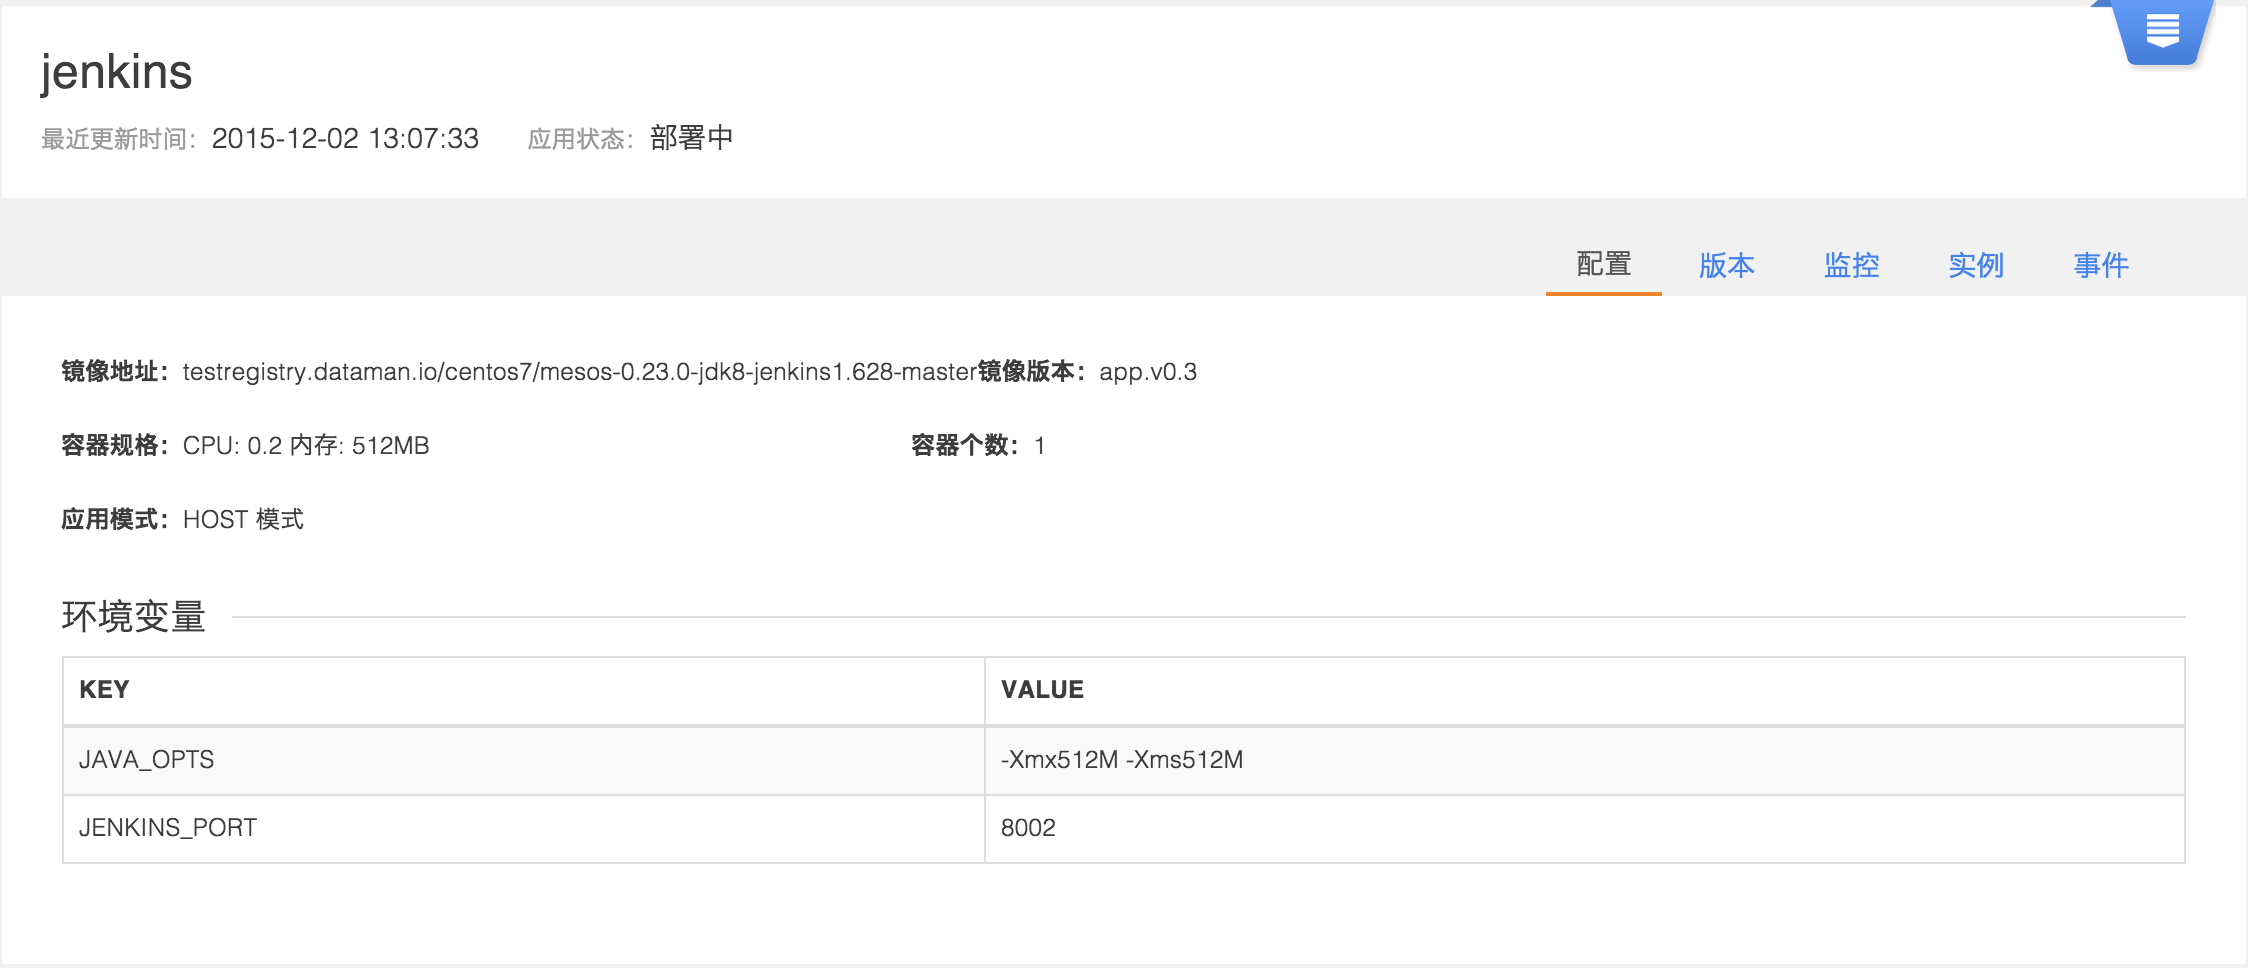
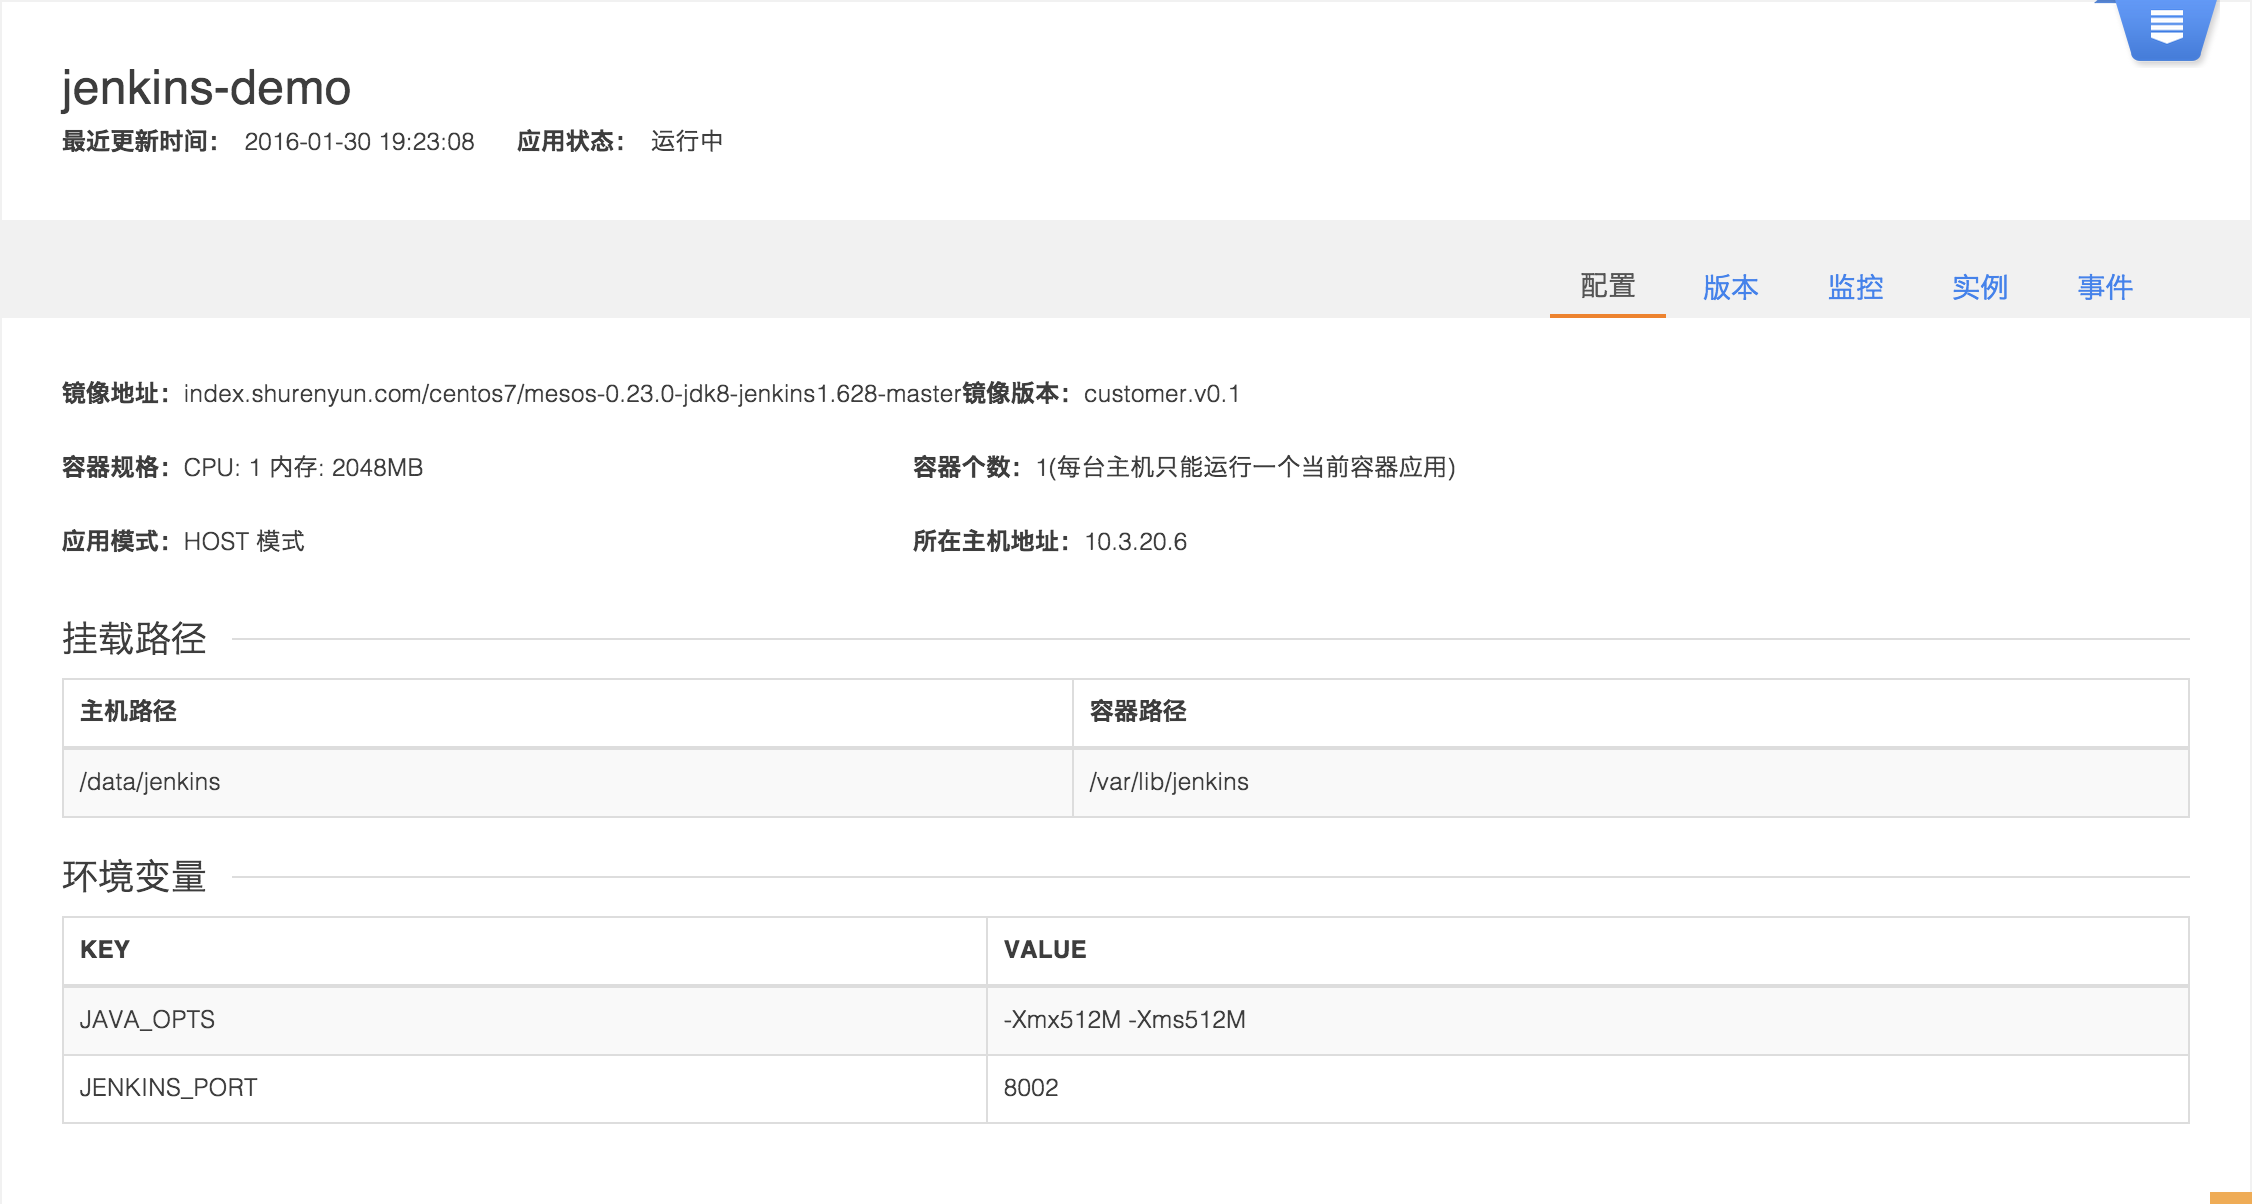
update jenkins

diff --git a/practice/jenkins.md b/practice/jenkins.md
@@ -33,13 +33,13 @@ Jenkins 是基于 Java 开发的一种持续集成 (CI) 工具，使用数人云
 
 * 填写应用名称：jenkins
 * 选择集群：demo
-* 添加应用镜像地址：testregistry.dataman.io/centos7/mesos-0.23.0-jdk8-jenkins1.628-master
-* 填写镜像版本：app.v0.3
+* 添加应用镜像地址：index.shurenyun.com/centos7/mesos-0.23.0-jdk8-jenkins1.628-master
+* 填写镜像版本：customer.v0.1
 * 选择应用模式：HOST模式
 * 选择应用类型：有状态应用
 * 选择主机：主机下拉列表中选择任一合适IP即可
-* 主机/容器目录配置： 数据挂载目录：/data/jenkins  容器目录：/var/lib/jenkins
-* 选择容器规格：CPU：0.2  内存：512MB
+* 主机/容器目录配置： 数据挂载目录：/data/jenkins  容器目录：/var/lib/jenkins (数据持久化挂载目录可根据个人需求选择挂载目录)
+* 选择容器规格：CPU：1  内存：2048MB (内存资源尽量给大些)
 
 ![新建Jenkins应用](./jenkins/A.png)
 
@@ -68,14 +68,16 @@ Jenkins 是基于 Java 开发的一种持续集成 (CI) 工具，使用数人云
 
 如果我们想要将Jenkins作为mesos的一个framework注册到mesos上，需要在成功启动 Jenkins之后对其插件进行设置。
 
-设置 Jenkins-Mesos 分三层，点击左上角"系统管理"，然后在系统管理页面点击"系统设置"。
+设置 Jenkins-Mesos 分三层，点击左上角"系统管理"，然后在系统管理页面点击"系统设置"，最后我们在左下角处点击"新增一个云"并选择下拉框中的"Mesos Cloud"选项。
+
+![Jenkins 选择Mesos插件设置](./jenkins/j0.png)
 
 1. Jenkins 调用 Mesos 集群设置
 
 * Mesos native library path 设置 Mesos lib 库路径，一般在/usr/lib/libmesos.so，拷贝无效，必须安装 Mesos。
-* Mesos Master [hostname:port] 设置 Mesos-Master 地址加端口，如果单 Mesos-Master 模式，使用 mesos-master-ip:5050格式，如果是多 Mesos-Master 使用 zk://zk1:2181,zk2:2181,zk3:2181/mesos 格式
-* Framework Name 设置 Mesos Master 查看到的应用框架名称
-* Slave username 设置 Slave的名字
+* Mesos Master [hostname:port] 设置 Mesos-Master 地址加端口，如果单 Mesos-Master 模式，使用 mesos-master-ip:5050格式或者zk://masterip:2181/mesos，如果是多 Mesos-Master 使用 zk://zk1:2181,zk2:2181,zk3:2181/mesos 格式
+* Framework Name 设置 Mesos Master 查看到的应用框架名称(如: Jenkins Scheduler)
+* Slave username 设置 Slave的名字(root)
 * Checkpointing 设置检查
 * On-demand framework registration 设置是否在无任务的情况下，从 Mesos-Master 注销应用框架
 
@@ -83,9 +85,10 @@ Jenkins 是基于 Java 开发的一种持续集成 (CI) 工具，使用数人云
 
 2. Jenkins Slave 调用 Mesos-Slave 类型设置(可按资源)
 
-* Label String 设置 Slave 标签
+* Label String 设置 Slave 标签(如: shurenyun)
 * Maximum number of Executors per Slave 每个 Slave 可以同时执行几个任务
 * Mesos Offer Selection Attributes 选择在那些 Mesos Slave 标签资源上运行，格式{"clusterType":"标签"}
+* 除Label String自行设置外，其余选项皆可默认
 
 ![Jenkins Slave 调用 Mesos-Slave 类型设置](./jenkins/j2.png)
 
@@ -95,6 +98,15 @@ Jenkins 是基于 Java 开发的一种持续集成 (CI) 工具，使用数人云
 * Networking - Bridge 设置网络模式，这里一定要设置网桥模式
 * Port Mapping -Container Port & Host Prot 设置容器端口关系，必须设置否则会导致 Mesos-DNS 因找不到端口映射崩溃，Host Port 默认设置为空(自动取)，否则必须设置在39000以后的Mesos Slave 选定端口内。
 * Volumes 挂载目录，必须挂载 slave.jar 和 docker in docker 
+* 我们提供了为大家体验使用的Jenkins Slave镜像：index.shurenyun.com/centos7/jenkins-slave:customer.v0.1
+* 点击"Add Port Mapping"添加端口映射
+* 点击"Add Volume"添加容器主机目录挂载
+* 容器：/mnt/mesos/sandbox/slave.jar 主机：/data/mesos/jenkins/slave.jar
+* 容器：/var/lib/docker              主机：/var/lib/docker
+* 容器：/var/run/docker.sock         主机：/var/run/docker.sock
+* 容器：/usr/bin/docker              主机：/usr/bin/docker
+* 容器：/sys/fs/cgroup               主机：/sys/fs/cgroup
+
 
 ![Jenkins Slave 调用 Docker 镜像设置1](./jenkins/j3.png)
 
